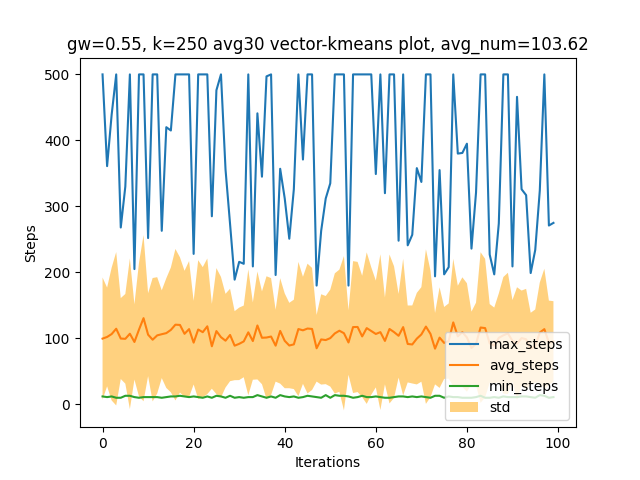
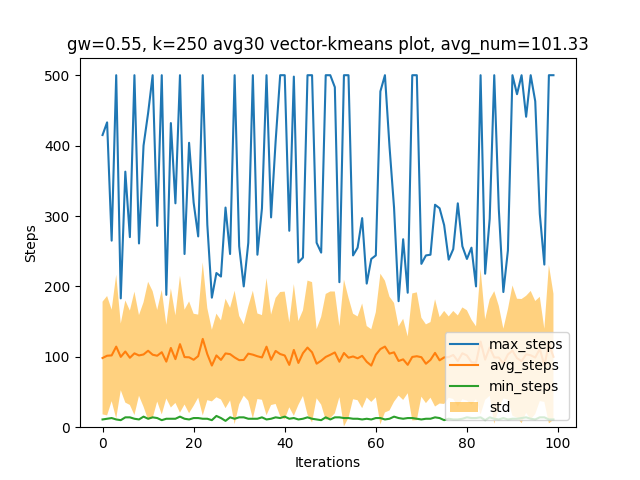
Tested a bunch more things to get vectors to work, but still not working.

diff --git a/classes/genericBasic.py b/classes/genericBasic.py
@@ -11,8 +11,10 @@ from matplotlib.ticker import NullFormatter
 
 class GenericModel:
     def __init__(self, env, gaussian_width, exploration_rate, weighted_kmeans=True,
-                 use_vectors=False, split_kmeans=False, K=20, no_learning=True, use_kmeans=True, vector_type=1):
+                 use_vectors=False, split_kmeans=False, K=20, no_learning=True, use_kmeans=True, vector_type=1,
+                 do_standardize=True):
         self.gaussian_width = gaussian_width
+        self.gaussian_width_vector = gaussian_width
         self.action_space_size = env.action_space.n
         self.observation_space_size = env.observation_space.shape[0]
         self.exploration_rate = exploration_rate
@@ -20,6 +22,7 @@ class GenericModel:
         self.split_kmeans = split_kmeans
         self.use_vectors = use_vectors
         self.vector_type = vector_type
+        self.do_standardize = do_standardize
         self.K = K
         self.no_learning = no_learning
         self.delta = 10**-8
@@ -97,10 +100,19 @@ class GenericModel:
         plt.show()
         plt.clf()
         input()
+        
+    def standardize(self, nodes):
+        if not self.do_standardize:
+            return nodes
+
+        if nodes.ndim == 1:
+            return self.scaler.transform([nodes])
+
+        return self.scaler.transform(nodes)
 
     def tsne(self, after_kmeans=False):
         print("Starting TSNE...")
-        self.standardized_states = self.scaler.transform(self.states)
+        self.standardized_states = self.standardize(self.states)
         state_length = len(self.standardized_states)
         perplexity = 20
         X = np.concatenate((self.standardized_states, self.kmeans_centers))
@@ -129,8 +141,12 @@ class GenericModel:
             self.weights = self.get_kmeans_weights()
         else:
             self.weights = np.ones_like(self.rewards)
-        self.scaler = preprocessing.StandardScaler().fit(self.states)
-        self.standardized_states = self.scaler.transform(self.states)
+
+        if self.do_standardize:
+            self.scaler = preprocessing.StandardScaler().fit(self.states)
+            self.standardized_states = self.scaler.transform(self.states)
+        else:
+            self.standardized_states = self.states
         self.kmeans_centers = KMeans(n_clusters=self.K, random_state=0, n_init='auto').fit(self.standardized_states, sample_weight=self.weights).cluster_centers_
         if run_tsne:
             self.tsne()
@@ -145,7 +161,7 @@ class GenericModel:
         return softmaxed_rewards
 
     def get_action_kmeans(self, state):
-        standardized_state = self.scaler.transform([state])
+        standardized_state = self.standardize(state)
 
         action_rewards = [0. for _ in self.state_action_transitions]
         weight_sums = [0. for _ in self.state_action_transitions]
@@ -169,17 +185,32 @@ class GenericModel:
                 return action  # Return action that has little data for the current state
         return np.argmax(action_rewards)
 
-    def get_action_with_vector(self, state):
+    def check_vector(self, old_state, new_real_state):
+        old_state = self.standardize(old_state)
+        new_real_state = self.standardize(new_real_state)
         if self.vector_type == 1:
-            new_states = self.calc_new_states_for_actions(state)
+            new_states = self.calc_new_states_for_actions(old_state)
         else:
-            new_states = self.calc_new_states_for_actions_by_closest(state)
+            new_states = self.calc_new_states_for_actions_by_closest(old_state)
+        expected_values = [self.calc_value_of_state(destination) for destination in new_states]
+        if self.vector_type == 1:
+            return np.argmax(expected_values)
+        else:
+            return np.argmax(expected_values)
+
+    def get_action_with_vector(self, state):
+        standardized_state = self.standardize(state)
+        if self.vector_type == 1:
+            new_states = self.calc_new_states_for_actions(standardized_state)
+        else:
+            new_states = self.calc_new_states_for_actions_by_closest(standardized_state)
         expected_values = [self.calc_value_of_state(destination) for destination in new_states]
         return np.argmax(expected_values)
 
-    def calc_new_states_for_actions(self, state):
-        standardized_state = self.scaler.transform([state])
 
+
+
+    def calc_new_states_for_actions(self, standardized_state):
         new_standardized_states = []
 
         for action, _ in enumerate(self.state_action_transitions):
@@ -192,9 +223,7 @@ class GenericModel:
 
         return new_standardized_states
 
-    def calc_new_states_for_actions_by_closest(self, state):
-        standardized_state = self.scaler.transform([state])
-
+    def calc_new_states_for_actions_by_closest(self, standardized_state):
         new_standardized_states = []
         dist = standardized_state - self.kmeans_centers
         center_index = np.argmin(np.sum(np.square(dist), axis=1))
@@ -205,11 +234,18 @@ class GenericModel:
         return new_standardized_states
 
     def calc_value_of_state(self, standardized_state):
-        dist = standardized_state - self.kmeans_centers
-        weight = np.exp(-np.sum(np.square(dist), axis=1) / self.gaussian_width) + self.delta
-        weight_sum = np.sum(weight)
-        action_rewards = weight.dot(self.center_max_rewards) / weight_sum
-        return action_rewards
+
+        action_rewards = [0. for _ in self.state_action_transitions]
+        weight_sums = [0. for _ in self.state_action_transitions]
+
+        for action, _ in enumerate(self.state_action_transitions):
+            if len(self.state_action_transitions_from[action]) > 0:
+                dist = standardized_state - self.kmeans_centers
+                weight = np.exp(-np.sum(np.square(dist), axis=1) / self.gaussian_width) + self.delta
+                weight_sums[action] = np.sum(weight)
+                action_rewards[action] = np.sum(weight * self.kmeans_action_reward_list[action]) / weight_sums[action]
+
+        return max(action_rewards)
 
 
     def calc_kmeans_center_rewards(self, centers):
@@ -221,12 +257,13 @@ class GenericModel:
             for action, _ in enumerate(self.state_action_transitions):
                 if len(self.state_action_transitions_from[action]) > 0:
                     dist = kmean - self.standardized_states[self.state_action_transitions_from[action]]
-                    weight = np.exp(-np.sum(np.square(dist), axis=1) / self.gaussian_width)
+                    weight = np.exp(-np.sum(np.square(dist), axis=1) / self.gaussian_width) + self.delta
                     weight_sums[action] = np.sum(weight)
                     action_rewards[action] = np.sum(weight * self.rewards[self.state_action_transitions_to[action]]) / weight_sums[action]
             action_rewards_list.append(action_rewards)
             weight_sums_list.append(weight_sums)
         return np.asarray(action_rewards_list).transpose(), weight_sums_list
+
 
     def calc_kmeans_center_vector(self, centers):
         # In this step, we use weighted average to give each center 1 vector per point.
@@ -239,16 +276,20 @@ class GenericModel:
             for action, _ in enumerate(self.state_action_transitions):
                 if len(self.state_action_transitions_from[action]) > 0:
                     dist = kmean - self.standardized_states[self.state_action_transitions_from[action]]
-                    weight = np.exp(-np.sum(np.square(dist), axis=1) / self.gaussian_width)
+                    weight = np.exp(-np.sum(np.square(dist), axis=1) / self.gaussian_width_vector) + self.delta
                     weight_sums[action] = np.sum(weight)
-                    vectors = self.states[self.state_action_transitions_to[action]] - self.states[self.state_action_transitions_from[action]]
+                    vectors = self.standardized_states[self.state_action_transitions_to[action]] - self.standardized_states[self.state_action_transitions_from[action]]
+                    '''
+                    print(vectors[0, :])
+
+                    from_stand = self.scaler.transform([self.states[self.state_action_transitions_from[action]][0]])
+                    to_stand = self.scaler.transform([self.states[self.state_action_transitions_to[action]][0]])
+                    print(to_stand - from_stand)
+                    input()
+                    '''
                     action_vectors[action] = vectors.transpose().dot(weight) / weight_sums[action]
 
             action_vector_list.append(action_vectors)
             weight_sums_list.append(weight_sums)
-        print(action_vectors)
-        print("\n\n\n")
-        print(action_vector_list)
         np_vector_list = np.asarray(action_vector_list)
-        print(f"{np_vector_list.shape=}")
         return np_vector_list

diff --git a/genericClients/Mass_testing_client.py b/genericClients/Mass_testing_client.py
@@ -10,8 +10,8 @@ SEED_COUNT = 30
 
 
 GAUSSIANS = [0.515, 0.535, 0.55, 0.565, 0.58]
-GAUSSIANS = [0.3, 0.4, 0.5, 0.6, 0.7, 0.8, 0.9]
-GAUSSIANS = [0.4]
+GAUSSIANS = [0.1, 0.2, 0.3, 0.4, 0.5, 0.6]
+GAUSSIANS = [0.55]
 
 K_VALUES = [200, 250, 300, 350, 400]
 K_VALUES = [100, 150, 200, 250, 300, 350, 400]
@@ -42,6 +42,7 @@ RUN_BASIC_NO_LEARN = False
 
 #gw0.55-250
 #gw0.4-250
+
 def run_program_with_different_seeds(plot_name, plot_title, seed_count=3,
                 discount_factor=kMeansClient.DISCOUNT_FACTOR, gaussian_width=kMeansClient.GAUSSIAN_WIDTH,
                 exploration_rate=kMeansClient.EXPLORATION_RATE, standard_episodes=kMeansClient.STANDARD_RUNNING_LENGTH,
@@ -51,10 +52,10 @@ def run_program_with_different_seeds(plot_name, plot_title, seed_count=3,
     datas = []
     for seed in range(seed_count):
         data = kMeansClient.run_program(seed=seed, discount_factor=discount_factor, gaussian_width=gaussian_width,
-                exploration_rate=exploration_rate, standard_episodes=standard_episodes,
-                kmeans_episodes=kmeans_episodes, weighted_kmeans=weighted_kmeans, render_mode=render_mode,
-                game_mode=game_mode, k=k, save_plot=False, ignore_kmeans=ignore_kmeans, use_vectors=use_vectors,
-                vector_type=vector_type, learn=learn)
+                                        exploration_rate=exploration_rate, standard_episodes=standard_episodes,
+                                        kmeans_episodes=kmeans_episodes, weighted_kmeans=weighted_kmeans, render_mode=render_mode,
+                                        game_mode=game_mode, k=k, save_plot=False, ignore_kmeans=ignore_kmeans, use_vectors=use_vectors,
+                                        vector_type=vector_type, learn=learn, do_standardize=True)
         datas.append(data)
     datas = np.asarray(datas)
     plotHelper.plot_with_max_min_mean_std(datas, plot_name, plot_title)

diff --git a/genericClients/kMeansClient.py b/genericClients/kMeansClient.py
@@ -38,14 +38,14 @@ def run_program(seed=SEED, discount_factor=DISCOUNT_FACTOR, gaussian_width=GAUSS
                 exploration_rate=EXPLORATION_RATE, standard_episodes=STANDARD_RUNNING_LENGTH,
                 kmeans_episodes=KMEANS_RUNNING_LENGTH, weighted_kmeans=True, render_mode=RENDER_MODE,
                 game_mode=GAME_MODE, k=K_MEANS_K, save_plot=True, ignore_kmeans=False, use_vectors=False, learn=True,
-                vector_type=1):
+                vector_type=1, do_standardize=True):
 
     env = gymnasium.make(game_mode, render_mode=render_mode)
     env.action_space.seed(seed)
     np.random.seed(seed)
 
     model = GenericModel(env, gaussian_width, exploration_rate, K=k, weighted_kmeans=weighted_kmeans,
-                         use_vectors=use_vectors, vector_type=vector_type)
+                         use_vectors=use_vectors, vector_type=vector_type, do_standardize=do_standardize)
 
     rewards = 0.  # Accumulative episode rewards
     actions = []  # Episode actions
@@ -70,8 +70,11 @@ def run_program(seed=SEED, discount_factor=DISCOUNT_FACTOR, gaussian_width=GAUSS
             action = model.get_action_kmeans(state)
 
         actions.append(action)
+        old_state = state
         state, reward, terminated, truncated, info = env.step(action)
         states.append(state)
+        if use_vectors and episodes >= standard_episodes and False:
+            model.check_vector(old_state, state)
 
         rewards += float(reward)
 

diff --git a/helper/plotHelper.py b/helper/plotHelper.py
@@ -56,6 +56,7 @@ def plot_with_max_min_mean_std(datas, plot_name, plot_title):
     plt.ylabel("Steps")
     plt.legend(loc="lower right")
     plt.title(plot_title + f", {avg_num=}")
+    plt.ylim(0, 525)
     plt.savefig(plot_name)
     plt.show()
     plt.clf()
@@ -77,6 +78,7 @@ def plot_multiple_graph_types(datas_list, labels, plot_name, plot_title, show_st
     plt.ylabel("Steps")
     plt.legend(loc="lower right")
     plt.title(plot_title)
+    plt.ylim(0, 525)
     plt.savefig(plot_name)
     plt.show()
     plt.clf()
